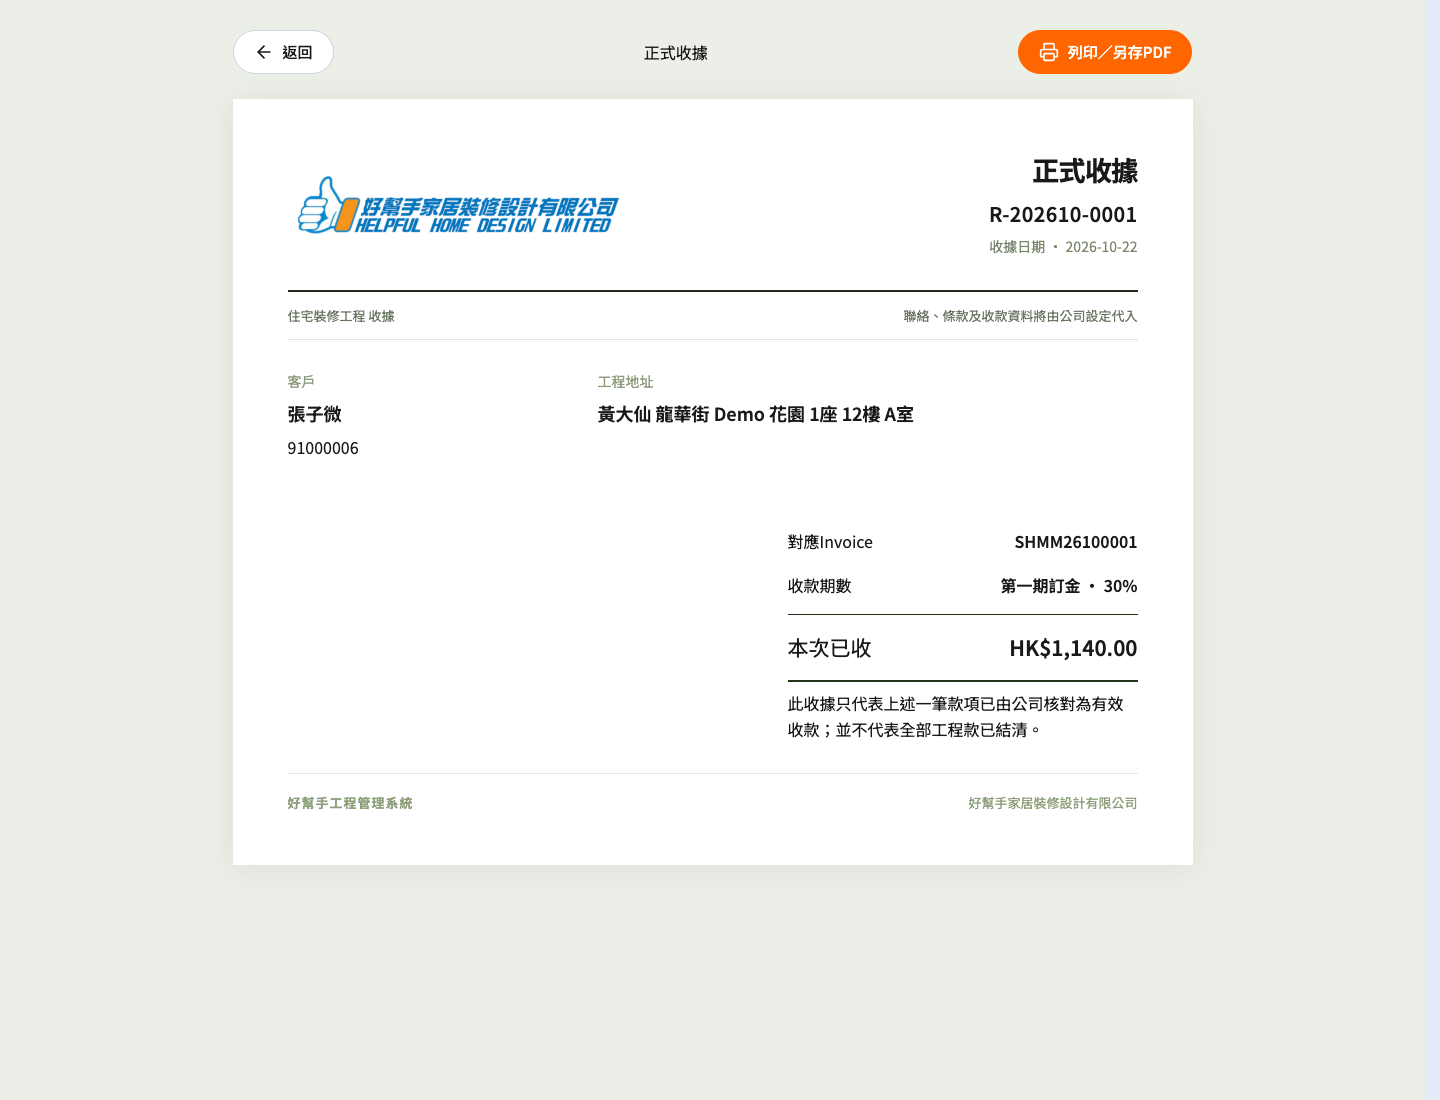
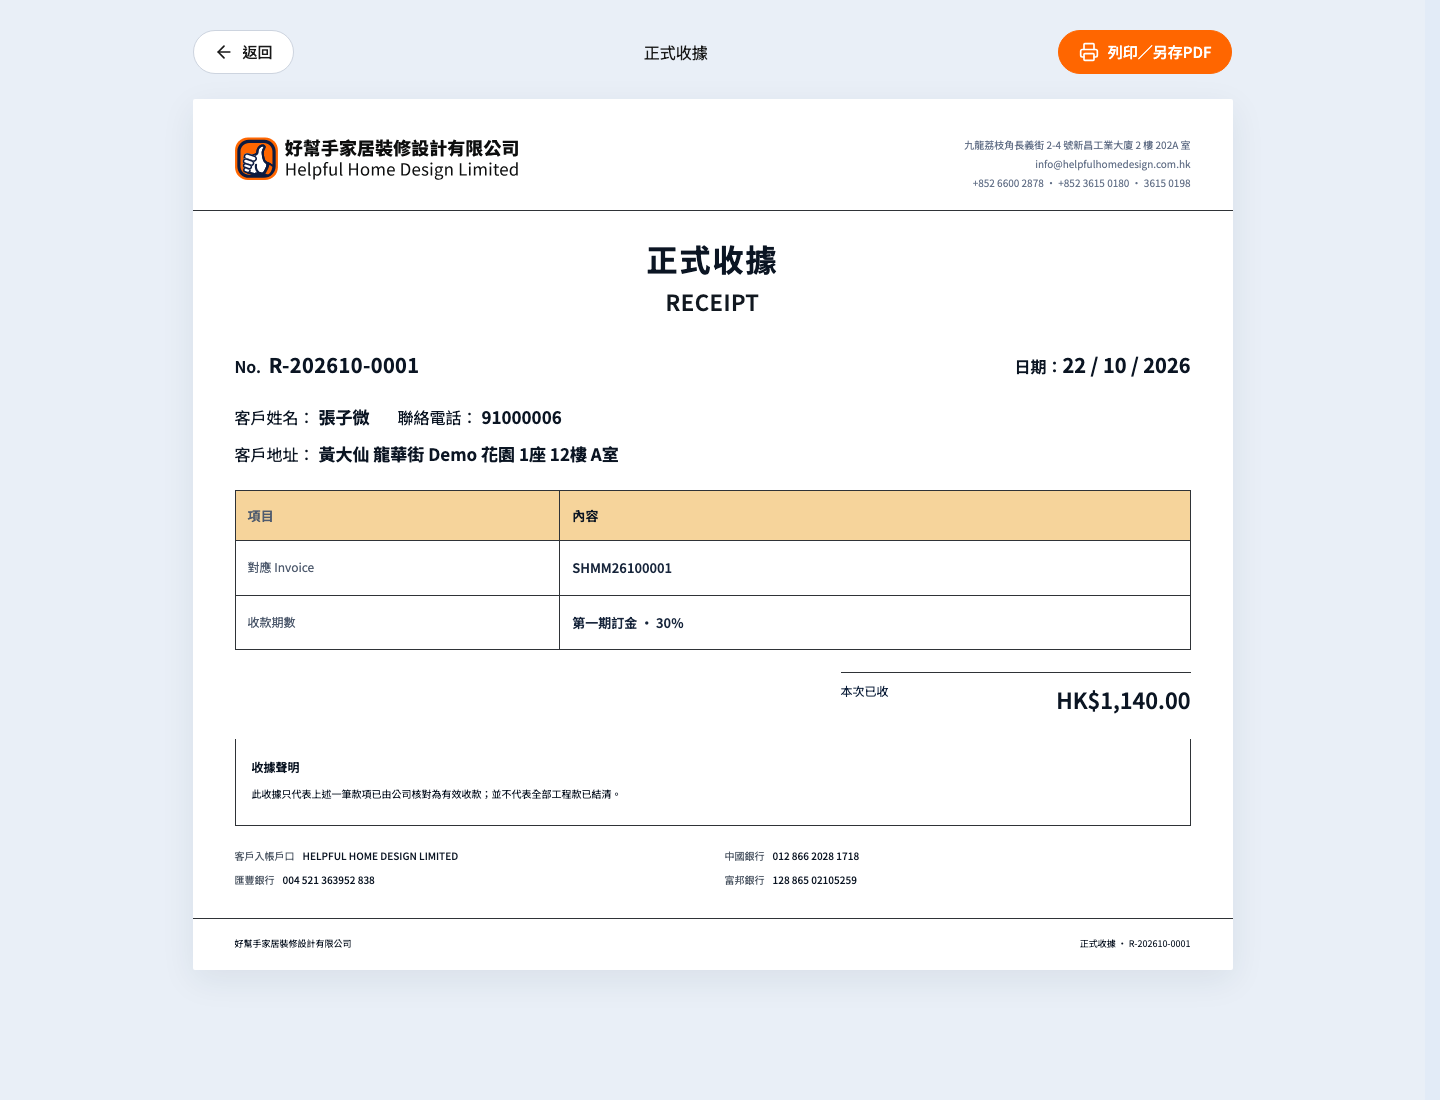
feat(documents): apply new blueprint to receipts

diff --git a/src/pages/Documents.tsx b/src/pages/Documents.tsx
@@ -62,7 +62,13 @@ export function Documents() {
       invoiceYear && invoiceMonth && invoiceDay
         ? `${invoiceDay} / ${invoiceMonth} / ${invoiceYear}`
         : invoiceDate || "—";
-    const styledDocument = Boolean(quote || invoiceDocument);
+    const styledDocument = Boolean(quote || inv);
+    const receiptDate = (receipt?.issuedAt ?? "").slice(0, 10);
+    const [receiptYear, receiptMonth, receiptDay] = receiptDate.split("-");
+    const receiptDateDisplay =
+      receiptYear && receiptMonth && receiptDay
+        ? `${receiptDay} / ${receiptMonth} / ${receiptYear}`
+        : receiptDate || "—";
     return (
       <div
         className={`document-page ${
@@ -96,9 +102,11 @@ export function Documents() {
           className={`document-sheet ${
             quote
               ? "quotation-sheet"
-              : invoiceDocument
-                ? "quotation-sheet invoice-sheet"
-                : ""
+              : receipt
+                ? "quotation-sheet receipt-sheet"
+                : invoiceDocument
+                  ? "quotation-sheet invoice-sheet"
+                  : ""
           }`}
         >
           {quote ? (
@@ -137,7 +145,7 @@ export function Documents() {
                 </div>
               </div>
             </>
-          ) : invoiceDocument ? (
+          ) : receipt || invoiceDocument ? (
             <>
               <header className="quotation-head">
                 <div className="quotation-brand">
@@ -153,8 +161,8 @@ export function Documents() {
                 </div>
               </header>
               <div className="quotation-title">
-                <h1>工程Invoice</h1>
-                <span>INVOICE</span>
+                <h1>{receipt ? "正式收據" : "工程Invoice"}</h1>
+                <span>{receipt ? "RECEIPT" : "INVOICE"}</span>
               </div>
               <div className="quotation-meta-line">
                 <div>
@@ -163,7 +171,12 @@ export function Documents() {
                     {displayNumber}
                   </strong>
                 </div>
-                <div>日期：<strong>{invoiceDateDisplay}</strong></div>
+                <div>
+                  日期：
+                  <strong>
+                    {receipt ? receiptDateDisplay : invoiceDateDisplay}
+                  </strong>
+                </div>
               </div>
               <div className="quotation-customer-lines">
                 <div>
@@ -194,12 +207,10 @@ export function Documents() {
               <p>
                 {municipal
                   ? `正單 ${municipal.principalOrderNumber} · 政府8萬資助申請`
-                  : receipt
-                    ? `收據日期 · ${receipt.issuedAt.slice(0, 10)}`
-                    : `版本 ${v?.index || "快照"} · ${
-                        v?.printPreparation?.date ||
-                        v?.createdAt.slice(0, 10)
-                      }`}
+                  : `版本 ${v?.index || "快照"} · ${
+                      v?.printPreparation?.date ||
+                      v?.createdAt.slice(0, 10)
+                    }`}
               </p>
             </div>
           </header>
@@ -288,26 +299,48 @@ export function Documents() {
               </div>
             </>
           ) : receipt ? (
-            <div className="document-totals">
-              <div>
-                <span>對應Invoice</span>
-                <strong>{inv?.number}</strong>
+            <>
+              <table className="document-table receipt-summary-table">
+                <thead>
+                  <tr>
+                    <th>項目</th>
+                    <th>內容</th>
+                  </tr>
+                </thead>
+                <tbody>
+                  <tr>
+                    <td>對應 Invoice</td>
+                    <td>
+                      <strong>{inv?.number}</strong>
+                    </td>
+                  </tr>
+                  <tr>
+                    <td>收款期數</td>
+                    <td>
+                      <strong>
+                        {receipt.installmentLabel ||
+                          `第${receipt.installment}期`}
+                        {receipt.percentage
+                          ? ` · ${receipt.percentage}%`
+                          : ""}
+                      </strong>
+                    </td>
+                  </tr>
+                </tbody>
+              </table>
+              <div className="document-totals receipt-totals">
+                <div className="total">
+                  <span>本次已收</span>
+                  <strong>{money(receipt.amount)}</strong>
+                </div>
               </div>
-              <div>
-                <span>收款期數</span>
-                <strong>
-                  {receipt.installmentLabel || `第${receipt.installment}期`}
-                  {receipt.percentage ? ` · ${receipt.percentage}%` : ""}
-                </strong>
+              <div className="document-terms receipt-statement">
+                <h3>收據聲明</h3>
+                <p>
+                  此收據只代表上述一筆款項已由公司核對為有效收款；並不代表全部工程款已結清。
+                </p>
               </div>
-              <div className="total">
-                <span>本次已收</span>
-                <strong>{money(receipt.amount)}</strong>
-              </div>
-              <p>
-                此收據只代表上述一筆款項已由公司核對為有效收款；並不代表全部工程款已結清。
-              </p>
-            </div>
+            </>
           ) : (
             <table className="document-table">
               <thead>
@@ -389,7 +422,7 @@ export function Documents() {
               ))}
             </div>
           )}
-          {(quote || invoiceDocument) && (
+          {(quote || inv) && (
             <div className="quotation-bank">
               <div>
                 <span>客戶入帳戶口</span>
@@ -440,12 +473,16 @@ export function Documents() {
               </div>
             )
           )}
-          {quote || invoiceDocument ? (
+          {quote || inv ? (
             <footer className="quotation-footer">
               <span>好幫手家居裝修設計有限公司</span>
               <span>
-                {invoiceDocument ? "工程 Invoice" : "工程報價單"} ·{" "}
-                {displayNumber}
+                {receipt
+                  ? "正式收據"
+                  : invoiceDocument
+                    ? "工程 Invoice"
+                    : "工程報價單"}{" "}
+                · {displayNumber}
               </span>
             </footer>
           ) : (

diff --git a/tests/e2e/document-access.spec.ts b/tests/e2e/document-access.spec.ts
@@ -105,7 +105,7 @@ test("未能核對未填備註會彈出提示，不會提交", async ({ page }) 
   await expect(dialog).toBeHidden();
 });
 
-test("收據保留正式收據設計，不套用工程Invoice樣式", async ({ page }) => {
+test("收據使用新文件藍本但標題為正式收據", async ({ page }) => {
   await page.goto("/");
   await switchRole(page, "開單員");
   await page.goto("/invoices/invoice-issued");
@@ -118,5 +118,9 @@ test("收據保留正式收據設計，不套用工程Invoice樣式", async ({ p
     page.getByRole("heading", { name: "工程Invoice", exact: true }),
   ).toHaveCount(0);
   await expect(page.locator(".invoice-sheet")).toHaveCount(0);
+  await expect(page.locator(".receipt-sheet .quotation-head")).toHaveCount(1);
+  await expect(
+    page.locator(".receipt-sheet .receipt-summary-table"),
+  ).toContainText("對應 Invoice");
   await expect(page.locator("article")).not.toContainText("undefined");
 });

diff --git a/src/styles.css b/src/styles.css
@@ -11745,3 +11745,27 @@ textarea::placeholder {
     min-height: 190px;
   }
 }
+
+/* Receipt uses the same document blueprint with receipt-specific summary */
+.receipt-sheet .receipt-summary-table th:first-child,
+.receipt-sheet .receipt-summary-table td:first-child {
+  width: 34%;
+  color: #4f5b6e;
+  text-align: left;
+}
+.receipt-sheet .receipt-summary-table th:last-child,
+.receipt-sheet .receipt-summary-table td:last-child {
+  text-align: left;
+}
+.receipt-sheet .receipt-summary-table td {
+  color: #17253b;
+}
+.receipt-sheet .receipt-summary-table td:last-child strong {
+  font-size: 13px;
+}
+.receipt-sheet .receipt-totals {
+  margin-top: 22px;
+}
+.receipt-sheet .receipt-statement {
+  margin-top: 22px;
+}
